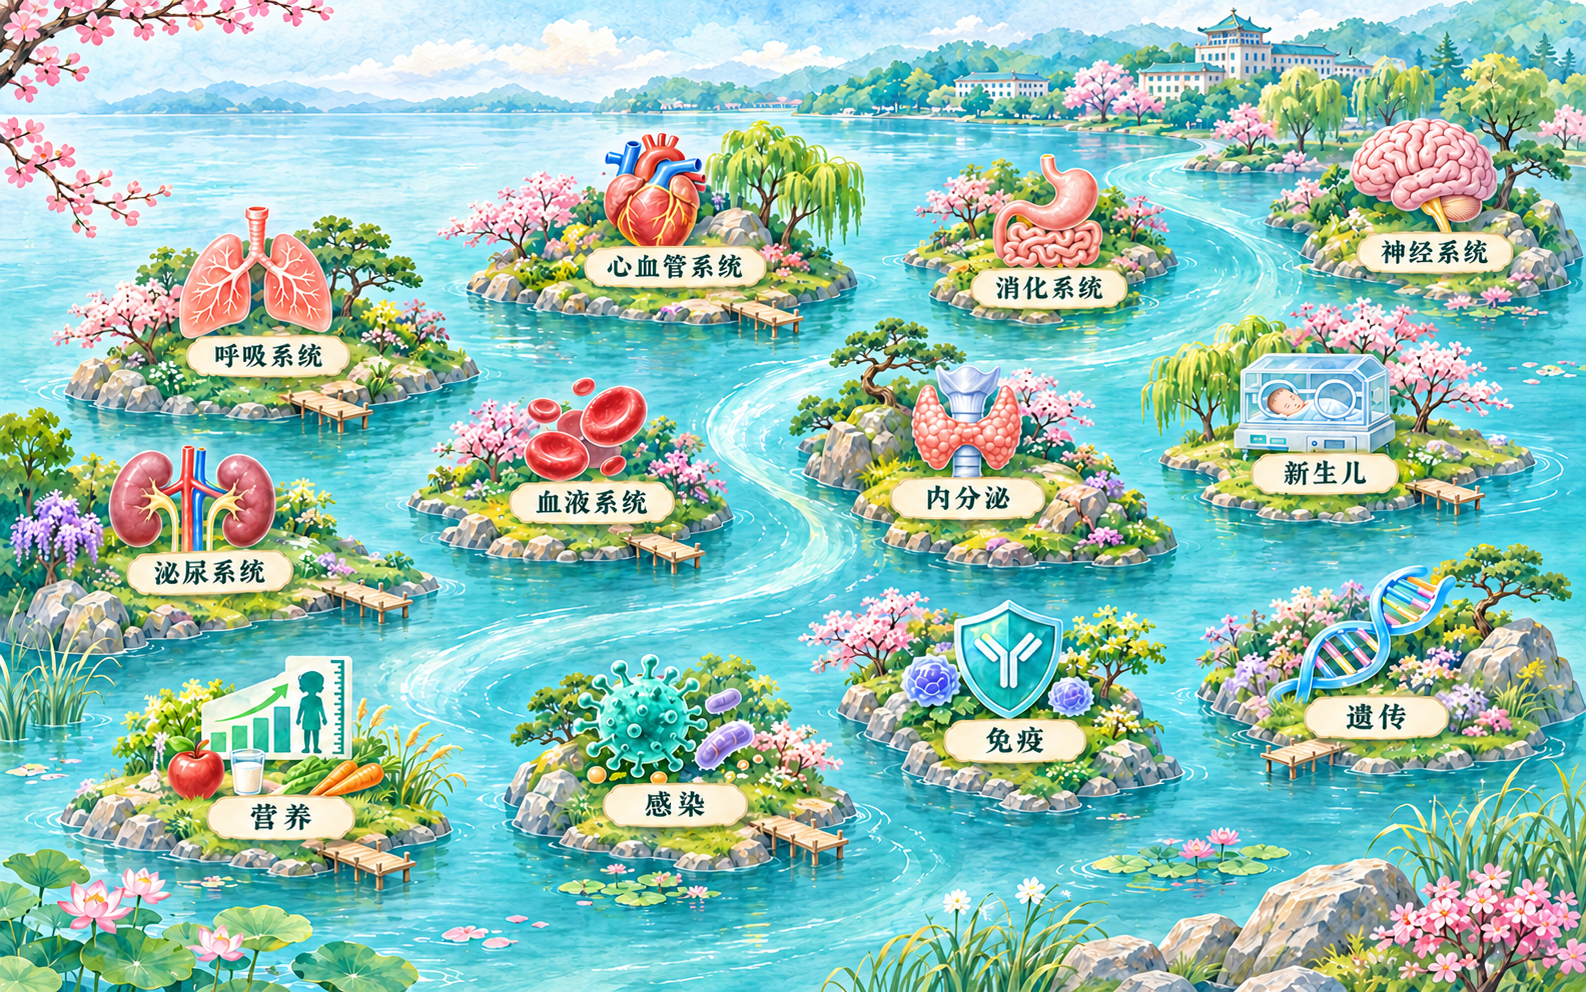
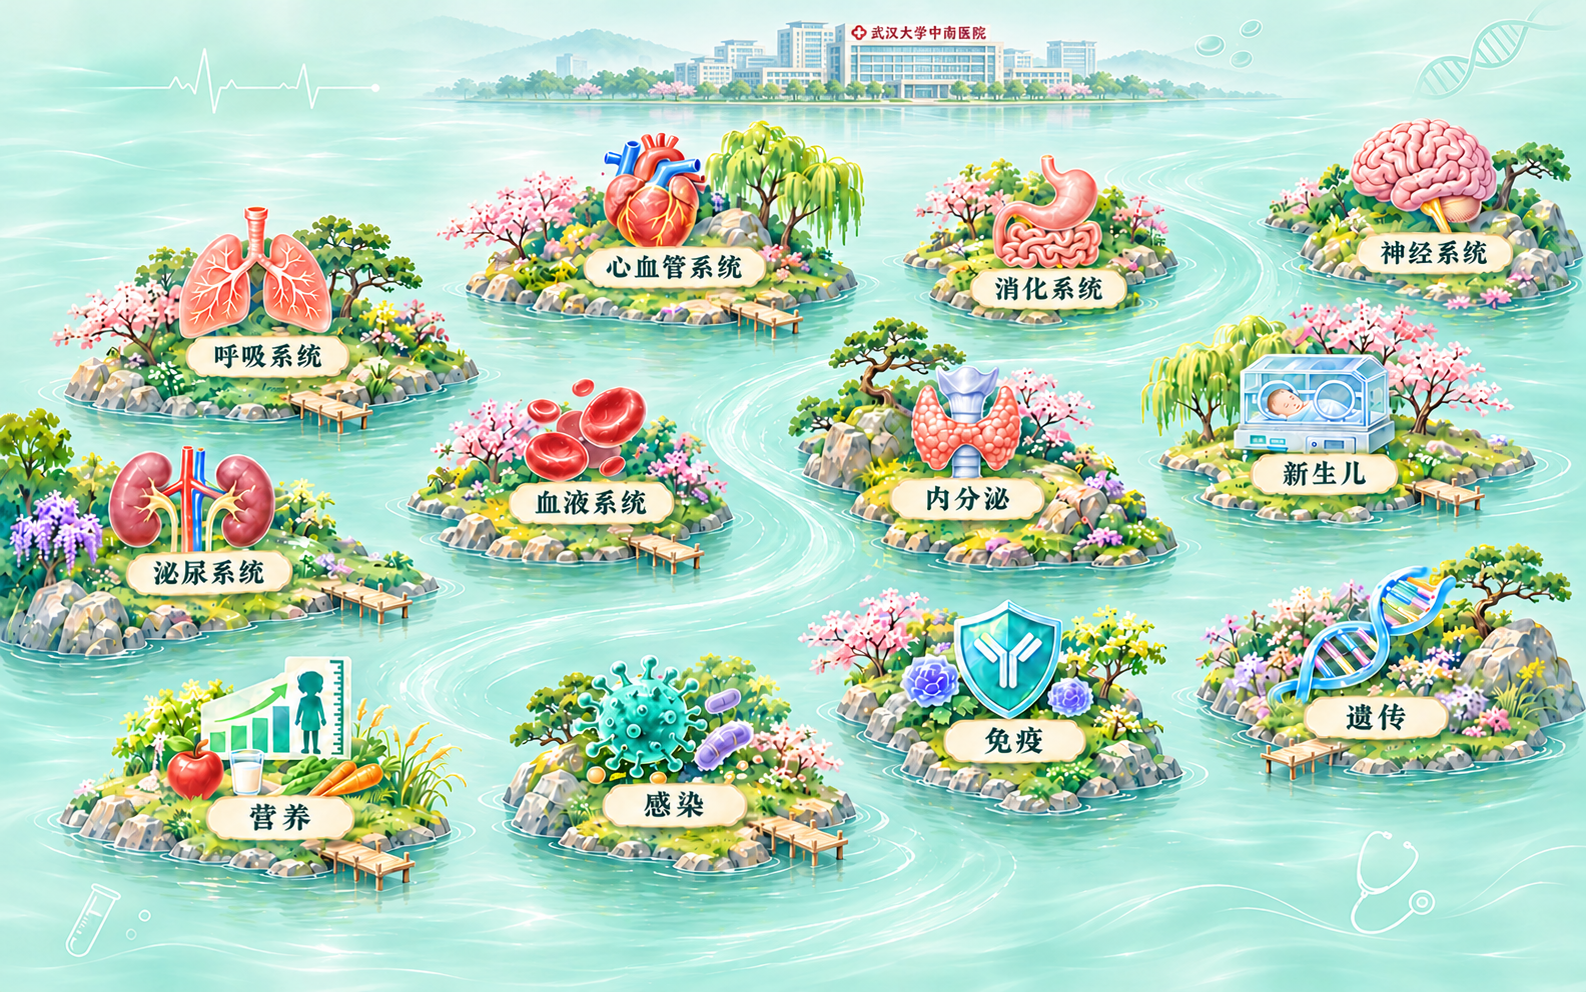
feat: 更新学生首页最终地图与岛屿交互

diff --git a/src/app/student/student-home.module.css b/src/app/student/student-home.module.css
@@ -4,17 +4,100 @@
 .heading p { margin: .3rem 0 0; }
 .tools { display: flex; align-items: center; flex-wrap: wrap; gap: .75rem; }
 .map { position: relative; overflow: hidden; border-radius: 1.1rem; }
+/* 最终稿已含浅青绿水面、淡医学纹理、12 岛与中南医院远岸，直接整图呈现。 */
 .mapArt { aspect-ratio: 1586 / 992; background: url('/pediatric-systems-map.png') center / 100% 100% no-repeat; }
-.island { position: absolute; transform: translate(-50%, -50%); width: 14%; height: 15%; color: transparent; background: transparent; border: 2px solid transparent; border-radius: 1rem; cursor: pointer; }
-.island:hover, .island:focus-visible { border-color: #fff8dd; background: #fff8dd24; outline: 2px solid #175e54; }
+.island {
+  position: absolute;
+  transform: translate(-50%, -50%);
+  display: grid;
+  place-items: end center;
+  padding: 0;
+  color: transparent;
+  background: transparent;
+  border: 0;
+  border-radius: 50%;
+  cursor: pointer;
+  -webkit-tap-highlight-color: transparent;
+}
+/* 岛屿光晕：只强化当前岛，不遮盖器官与名称牌。 */
+.island::before {
+  content: '';
+  position: absolute;
+  inset: 6%;
+  border-radius: 50%;
+  background: radial-gradient(ellipse at center, #fff6d84d 0%, #fff6d826 55%, transparent 72%);
+  box-shadow: 0 0 0 0 transparent;
+  opacity: 0;
+  transition: opacity .18s ease, box-shadow .18s ease;
+  pointer-events: none;
+}
+.island:hover::before, .island:focus-visible::before {
+  opacity: 1;
+  box-shadow: 0 0 26px 10px #fff3c466, 0 0 0 2px #fff8ddcc;
+}
+.island:focus-visible { outline: 3px solid #0f4c44; outline-offset: 2px; }
+.islandLabel {
+  position: absolute;
+  bottom: -4%;
+  left: 50%;
+  transform: translate(-50%, 40%);
+  padding: .2rem .6rem;
+  border-radius: 999px;
+  background: #0f4c44;
+  color: #f3fffa;
+  font-size: .85rem;
+  line-height: 1.3;
+  white-space: nowrap;
+  opacity: 0;
+  transition: opacity .18s ease, transform .18s ease;
+  pointer-events: none;
+}
+.island:hover .islandLabel, .island:focus-visible .islandLabel { opacity: 1; transform: translate(-50%, 55%); }
 .levels { display: grid; grid-template-columns: repeat(3, minmax(0, 1fr)); gap: .75rem; padding: 0; list-style: none; }
 .levels a { display: grid; gap: .6rem; height: 100%; padding: 1rem; border: 1px solid #bddbd1; border-radius: .85rem; background: #fff; color: #174b48; overflow-wrap: anywhere; }
 .levels a:hover, .levels a:focus-visible { background: #ebf7f0; }
 .levels span { font-size: .85rem; color: #36675d; }
 @media (max-width: 600px) {
   .map { display: grid; grid-template-columns: repeat(3, minmax(0, 1fr)); gap: .45rem; overflow: visible; }
-  .mapArt { grid-column: 1 / -1; border-radius: .9rem; }
-  .island { position: static; transform: none; width: auto; height: auto; min-height: 44px; color: #174b48; background: #edf7f2; border: 1px solid #bddbd1; font-size: .85rem; }
+  /* 手机页首只保留远岸医院条带，群岛改由下方三列按钮承载。 */
+  .mapArt {
+    grid-column: 1 / -1;
+    aspect-ratio: auto;
+    height: 84px;
+    border-radius: .9rem;
+    background-size: 170% auto;
+    background-position: 50% 0;
+  }
+  .island {
+    position: static;
+    transform: none;
+    display: grid;
+    place-items: center;
+    width: auto;
+    height: auto;
+    min-height: 44px;
+    padding: .45rem .2rem;
+    border: 1px solid #bddbd1;
+    border-radius: .7rem;
+    background: #edf7f2;
+  }
+  .island::before { display: none; }
+  .island:hover, .island:focus-visible { background: #dcf0e6; }
+  .islandLabel {
+    position: static;
+    transform: none;
+    padding: 0;
+    background: transparent;
+    color: #174b48;
+    font-size: .85rem;
+    opacity: 1;
+    white-space: normal;
+    text-align: center;
+  }
+  .island:hover .islandLabel, .island:focus-visible .islandLabel { transform: none; }
   .levels { gap: .4rem; }
   .levels a { padding: .6rem; font-size: .85rem; }
+}
+@media (prefers-reduced-motion: reduce) {
+  .island::before, .islandLabel { transition: none; }
 }

diff --git a/src/app/student/page.tsx b/src/app/student/page.tsx
@@ -8,19 +8,21 @@ import { normalizeCategory } from '@/domain/case-classification';
 import { authedFetch } from '@/lib/authed-api';
 import styles from './student-home.module.css';
 
+// 热区坐标基于最终稿 pediatric-systems-map.png（1586×992）逐岛核对，
+// w/h 略小于视觉轮廓，避免相邻岛屿重叠误触。
 const systems = [
-  { name: '呼吸系统', categories: ['呼吸系统疾病'], x: 16, y: 36 },
-  { name: '心血管系统', categories: ['心血管系统疾病'], x: 42, y: 27 },
-  { name: '消化系统', categories: ['消化系统疾病', '急性中毒'], x: 66, y: 29 },
-  { name: '神经系统', categories: ['神经系统'], x: 90, y: 25 },
-  { name: '泌尿系统', categories: ['泌尿系统疾病'], x: 13, y: 58 },
-  { name: '血液系统', categories: ['造血系统疾病'], x: 37, y: 50 },
-  { name: '内分泌', categories: ['内分泌疾病'], x: 61, y: 50 },
-  { name: '新生儿', categories: ['新生儿与新生儿疾病'], x: 83, y: 48 },
-  { name: '营养', categories: ['营养性疾病'], x: 18, y: 82 },
-  { name: '感染', categories: ['感染性疾病'], x: 43, y: 81 },
-  { name: '免疫', categories: ['免疫性疾病'], x: 64, y: 75 },
-  { name: '遗传', categories: ['遗传性疾病'], x: 87, y: 72 },
+  { name: '呼吸系统', categories: ['呼吸系统疾病'], x: 16, y: 32, w: 20, h: 20 },
+  { name: '心血管系统', categories: ['心血管系统疾病'], x: 41, y: 22, w: 19, h: 20 },
+  { name: '消化系统', categories: ['消化系统疾病', '急性中毒'], x: 65, y: 23, w: 17, h: 19 },
+  { name: '神经系统', categories: ['神经系统'], x: 90, y: 21, w: 16, h: 18 },
+  { name: '泌尿系统', categories: ['泌尿系统疾病'], x: 13, y: 53, w: 20, h: 20 },
+  { name: '血液系统', categories: ['造血系统疾病'], x: 36, y: 47, w: 16, h: 20 },
+  { name: '内分泌', categories: ['内分泌疾病'], x: 61, y: 45, w: 18, h: 23 },
+  { name: '新生儿', categories: ['新生儿与新生儿疾病'], x: 84, y: 42, w: 18, h: 20 },
+  { name: '营养', categories: ['营养性疾病'], x: 17, y: 77, w: 21, h: 20 },
+  { name: '感染', categories: ['感染性疾病'], x: 42, y: 76, w: 19, h: 20 },
+  { name: '免疫', categories: ['免疫性疾病'], x: 63, y: 71, w: 18, h: 19 },
+  { name: '遗传', categories: ['遗传性疾病'], x: 87, y: 68, w: 19, h: 20 },
 ];
 
 export default function StudentHome() {
@@ -60,8 +62,11 @@ export default function StudentHome() {
       {/* Coordinates use the original artwork's aspect ratio. */}
       <div className={styles.mapArt} aria-hidden="true" />
       {systems.map((item, index) => <button key={item.name} type="button"
-        className={styles.island} style={{ left: `${item.x}%`, top: `${item.y}%` }}
-        onClick={() => setSelected(index)}>{item.name}</button>)}
+        className={styles.island} aria-label={`进入${item.name}病例`}
+        style={{ left: `${item.x}%`, top: `${item.y}%`, width: `${item.w}%`, height: `${item.h}%` }}
+        onClick={() => setSelected(index)}>
+        <span className={styles.islandLabel}>{item.name}</span>
+      </button>)}
     </nav> : error ? <div role="alert">病例目录加载失败。 <button type="button" onClick={() => { setError(false); setAttempt(attempt + 1); }}>重试</button></div>
       : !catalog ? <p role="status">正在加载病例目录…</p>
       : system.categories.map((category) => {

diff --git a/DESIGN.md b/DESIGN.md
@@ -78,3 +78,24 @@
 ### 设计禁忌
 - 不让语音失败态占据大块面积，不提供两个同义退出按钮，不以浏览器原生语音识别或 `speechSynthesis` 替代平台音频能力。
 - 不为聊天改版新增第二套消息模型、提示计数或评分规则；不展示诊断答案、治疗方案或模型原始响应。
+
+## 首页地图与医学背景（2026-11-03 最终素材版）
+
+### 素材与来源
+- 地图最终稿：`public/pediatric-systems-map.png`（1586×992），已含 12 岛形状、花草、器官图案、名称牌、浅青绿水面、淡医学纹理与「武汉大学中南医院」远岸示意建筑。不再另绘岛屿或覆盖水面。
+- 散景医学背景：`public/medical-bg-landscape.png`（1672×941 桌面横版）与 `public/medical-bg-portrait.png`（941×1672 手机竖版），仅作岛外页面底纹。
+- 医院建筑属示意插画，不追加真实院徽、实景照片或额外文字标注。
+
+### 地图布局与命中
+- 桌面：整图按 1586/992 比例呈现，保留群岛空间关系与远岸；12 个岛屿复用同一组件，以百分比热区覆盖对应岛屿，热区略小于视觉轮廓以避免相邻岛重叠误触。
+- 手机（≤600px）：同一套岛屿组件改为三列网格重排，图内名称牌不再承担点击；远岸区域作为轻量页首条带展示，不重复渲染整张群岛图。
+- 高亮与聚焦：悬停/聚焦使用岛屿光晕（外发光 + 名称牌状态浮出），`:focus-visible` 提供高对比描边，键盘 Tab 顺序与系统顺序一致；每个热区带 `aria-label` 系统名。
+- 触控目标：手机岛屿按钮最小高度 44px。
+
+### 医学背景使用边界
+- 优先接入临床能力专项、学习资源、OSCE 准备页；桌面横版、手机竖版，低透明度底纹，不影响文字对比度。
+- 训练工作台仅在内容面板外露出淡底纹；12 岛首页始终使用中南医院远岸地图，不叠加散景背景。
+
+### 设计禁忌
+- 不替换或涂改岛内器官、花草与名称牌；不引入第二套岛屿组件或第二份地图资源。
+- 不用纯色/渐变图片冒充最终稿；不让底纹穿过正文卡片造成可读性下降。
